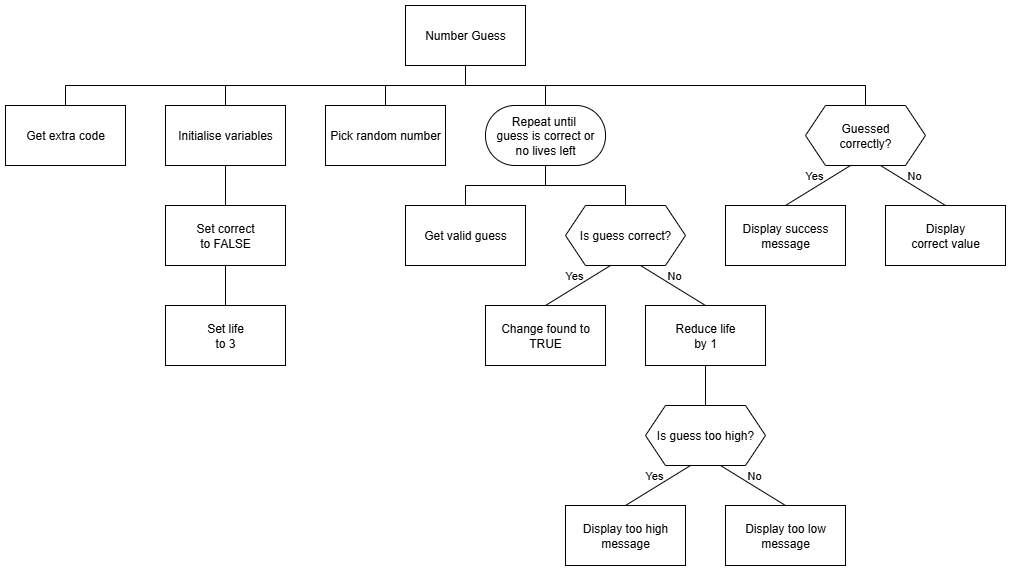
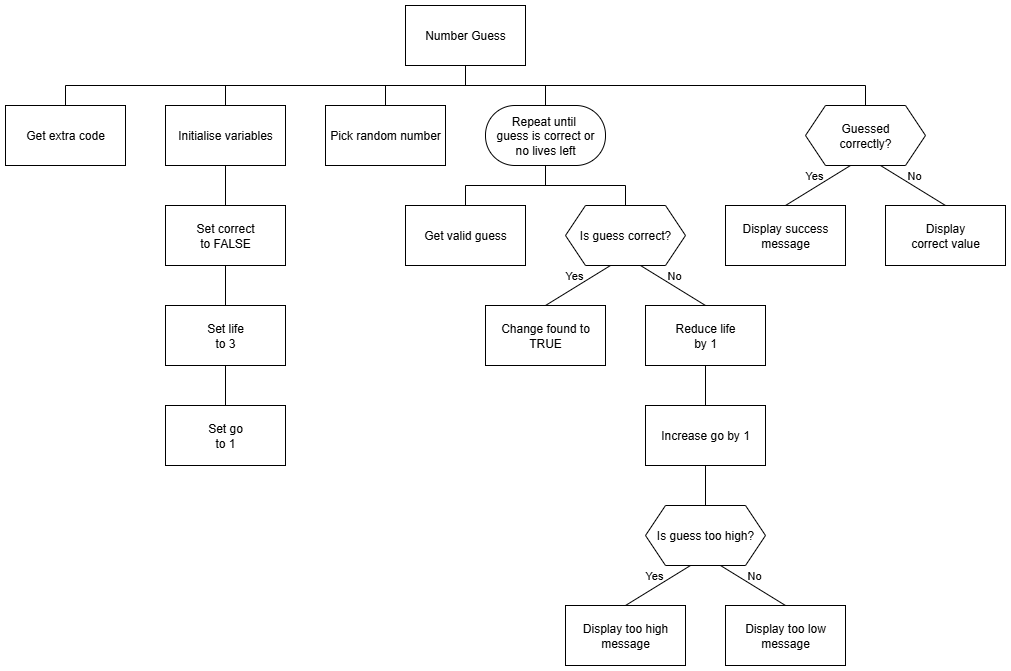
Updated

diff --git a/n5-cs/sdd/N5-SDD-Chance/assets/solution5.py b/n5-cs/sdd/N5-SDD-Chance/assets/solution5.py
@@ -1,6 +1,6 @@
-# Title: N5 SDD Number Guess
+# Title: N5 SDD Chance Part 5
 # Author: Mr Friend
-# Date: 3 Sep 2024
+# Date: 21 Nov 2025
 
 # Import module
 import random
@@ -10,7 +10,7 @@ compValue = 0
 guess = 0
 found = False
 life = 3
-guesses = ["last", "second", "first"]
+counter = 1
 
 # Pick random number
 compValue = random.randint(1, 10)
@@ -18,18 +18,23 @@ compValue = random.randint(1, 10)
 # Display header
 print("Number Guess")
 print("------------")
+
+print()
 print("I've picked a number between 1 and 10.")
 
 # Repeat until guess is correct or no lives left
 while life > 0 and found != True:
     
     #Get valid guess
-    guess = int(input("\nWhat is your " + guesses[life-1] + " guess? "))
+    print()
+    guess = int(input("What is guess " + str(counter) + ": "))
 
     # Only accept 1 to 10 as guesses
     while guess < 1 or guess > 10:
+        
+        print()
         print("Only values from 1 to 10 are accepted.")
-        userValue = int(input("\nWhat is your " + guesses[life] + " guess? "))
+        guess = int(input("What is guess " + str(counter) + ": "))
     
     # Is guess correct?
     if guess == compValue:
